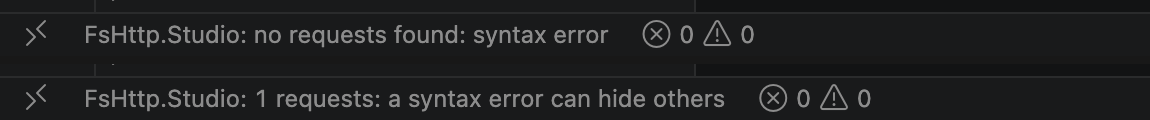
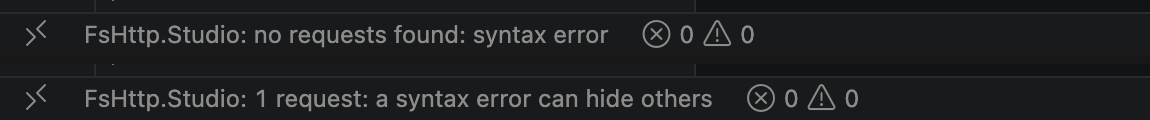
Report one request in the singular on a failed parse
`statusText` matched `Script(n, true) when n >= 1` with one plural sentence, so
a script with one surviving block and a syntax error read `1 requests: a syntax
error can hide others`. The clean-parse rows above it already split the
singular from the plural, and the failed-parse row never did.

Split it the same way. `Script(1, true)` gets its own row, and the plural row
narrows to `n > 1`.

`ProtocolTests` gains the singular row and asserts both counts in the
pluralization test, which is where a reader looks for this rule.
`StatusBarTests` drives the `no-requests-between` fixture, which holds exactly
one surviving block, so it moves onto the singular text. The status-bar table
in `docs/spec/0014` splits into two rows, and the string inventory below it
carries both.

The after screenshot is recaptured, so the image shows the singular sentence.

Verified with `dotnet build FsHttp.Studio.slnx`, `dotnet test`,
`dotnet fantomas --check .`, and `./tests/ui.Tests/run.sh`. 218 unit tests and
19 UI checks pass.

Changed region(s): [[0.3043, 0.7, 0.7609, 0.925]]

diff --git a/docs/spec/0014-explain-missing-lenses.md b/docs/spec/0014-explain-missing-lenses.md
@@ -176,7 +176,8 @@ The item's text becomes a function of two inputs: companion state, and a view of
 | `Ready` | `.fsx` | clean | N > 1 | `N requests` |
 | `Ready` | `.fsx` | clean | 0 | `no requests found` |
 | `Ready` | `.fsx` | failed | 0 | `no requests found: syntax error` |
-| `Ready` | `.fsx` | failed | N ≥ 1 | `N requests: a syntax error can hide others` |
+| `Ready` | `.fsx` | failed | 1 | `1 request: a syntax error can hide others` |
+| `Ready` | `.fsx` | failed | N > 1 | `N requests: a syntax error can hide others` |
 
 `Extension.setStatusText` supplies the `FsHttp.Studio: ` prefix, which is unchanged.
 
@@ -278,6 +279,7 @@ Register the listener's `Disposable` in `context.subscriptions`, as each other s
 | `{n} requests` | Status bar |
 | `no requests found` | Status bar |
 | `no requests found: syntax error` | Status bar |
+| `1 request: a syntax error can hide others` | Status bar |
 | `{n} requests: a syntax error can hide others` | Status bar |
 
 Rules that these strings hold, and that a later edit must hold:
